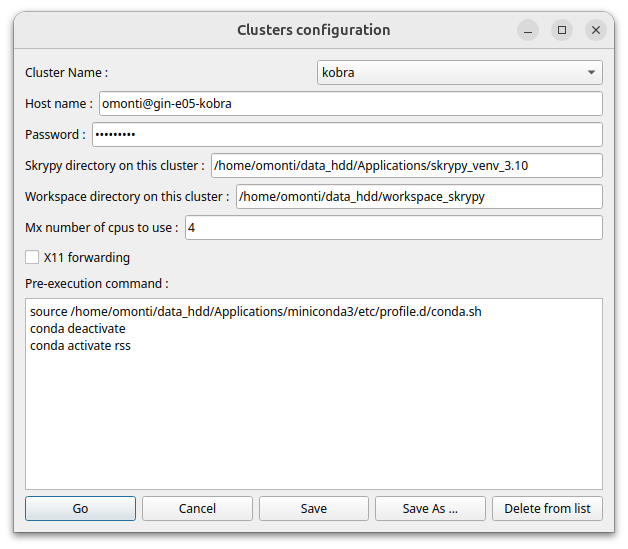
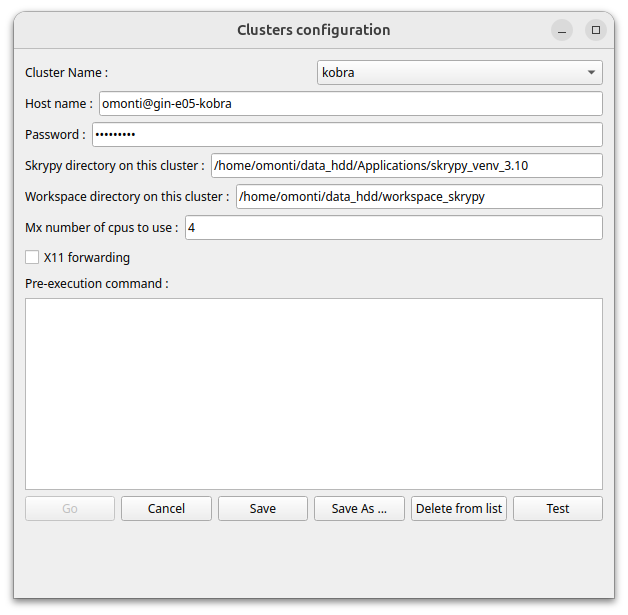
update software (see README)

diff --git a/skrypy/NodeEditor/python/servers_config.py b/skrypy/NodeEditor/python/servers_config.py
@@ -128,7 +128,7 @@ class servers_window(QDialog):
         self.buttonSave = QPushButton('Save', self)
         buttonSaveAs = QPushButton('Save As ...', self)
         self.buttonDelete = QPushButton('Delete from list', self)
-        buttonTest = QPushButton('Test', self)
+        self.buttonTest = QPushButton('Test', self)
 
         hbox8 = QHBoxLayout()
         hbox8.addWidget(buttonGo)
@@ -136,7 +136,7 @@ class servers_window(QDialog):
         hbox8.addWidget(self.buttonSave)
         hbox8.addWidget(buttonSaveAs)
         hbox8.addWidget(self.buttonDelete)
-        hbox8.addWidget(buttonTest)
+        hbox8.addWidget(self.buttonTest)
 
         if self.config == 'config':
             buttonGo.setEnabled(False)
@@ -146,7 +146,7 @@ class servers_window(QDialog):
         self.buttonSave.clicked.connect(self.save)
         buttonSaveAs.clicked.connect(self.saveas)
         self.buttonDelete.clicked.connect(lambda: self.deleteServer(self.server_name.currentText()))
-        buttonTest.clicked.connect(self.test_cluster)
+        self.buttonTest.clicked.connect(self.test_cluster)
         
         self.info1 = QLabel()
         self.info2 = QLabel()
@@ -178,9 +178,11 @@ class servers_window(QDialog):
         if self.server_name.currentText() == 'template':
             self.buttonDelete.setEnabled(False)
             self.buttonSave.setEnabled(False)
+            self.buttonTest.setEnabled(False)
         else:
             self.buttonDelete.setEnabled(True)
             self.buttonSave.setEnabled(True)
+            self.buttonTest.setEnabled(True)
 
         self.area_name.setText(self.list_config[current_server]['host_name'])
         self.skry_dir.setText(self.list_config[current_server]['skrypy_server_directory'])
@@ -196,6 +198,9 @@ class servers_window(QDialog):
             print('error to open cluster config:', err)
             tmppd = ''
         self.wd_field.setText(tmppd)
+        self.info1.setText("")
+        self.info2.setText("")
+        self.info3.setText("")
         self.setWindowTitle('Clusters configuration')
 
     def go(self):

diff --git a/skrypy/Config.py b/skrypy/Config.py
@@ -23,8 +23,8 @@ class Config():
                                  'cpu_number': '4',
                                  'X11_forwarding': False,
                                  'pre_execution_command': 'conda activate foo',
-                                 'df_command': '',
-                                 'dk_command': ''
+                                 'fd_command': '',
+                                 'fk_command': ''
                                  }}
 
     def __init__(self):
